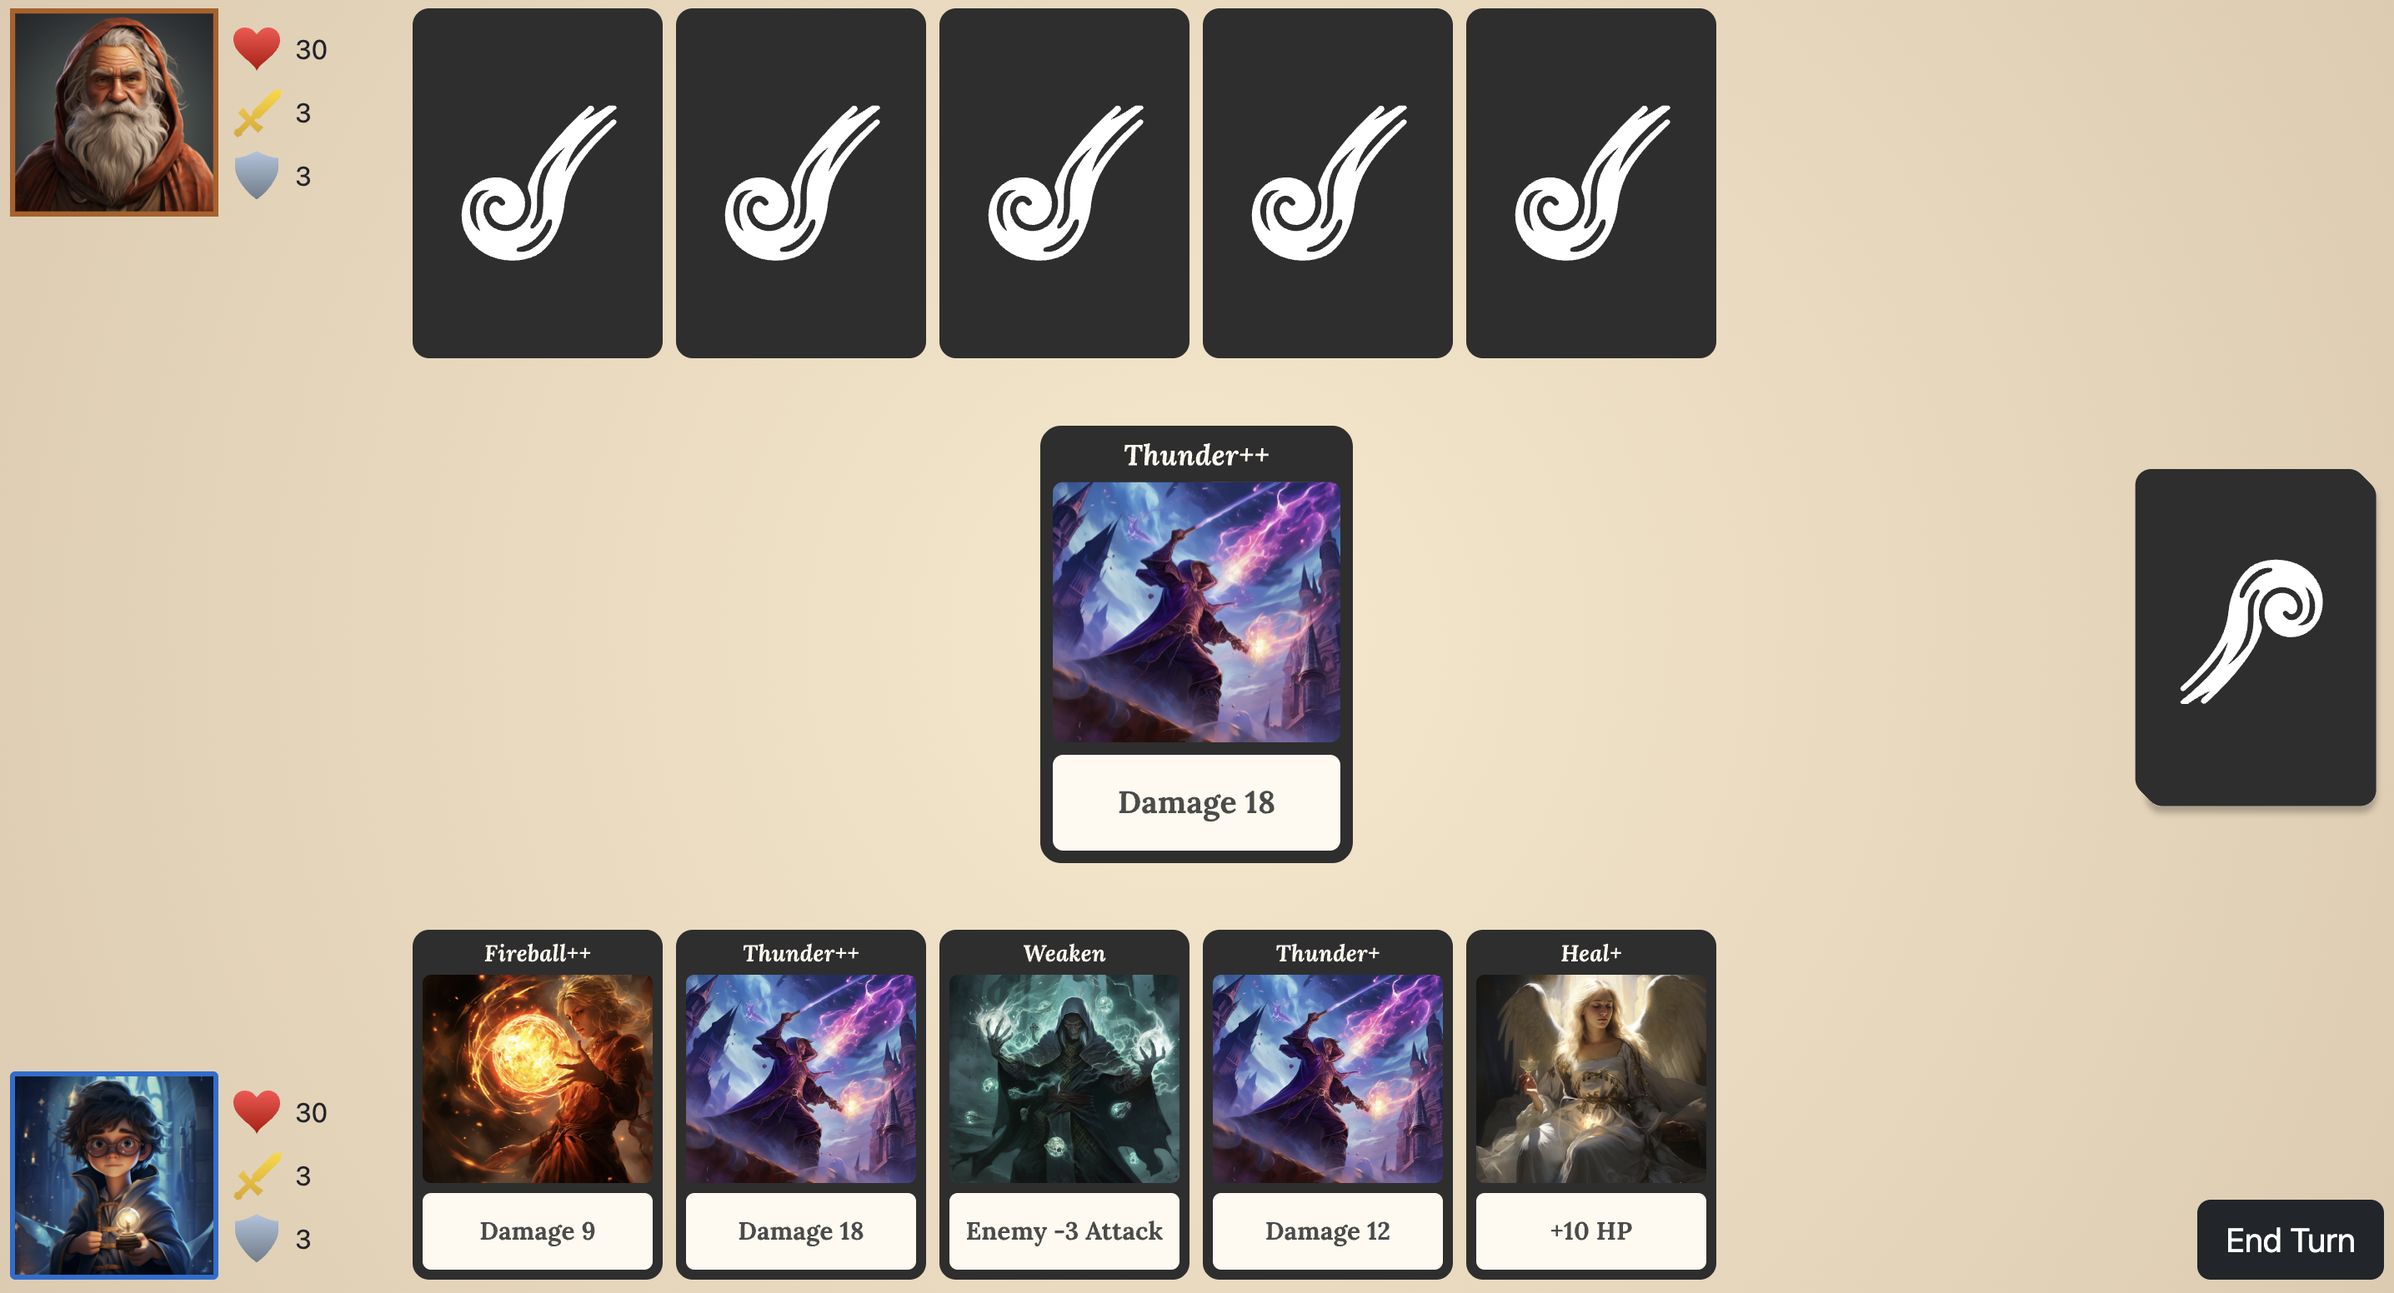
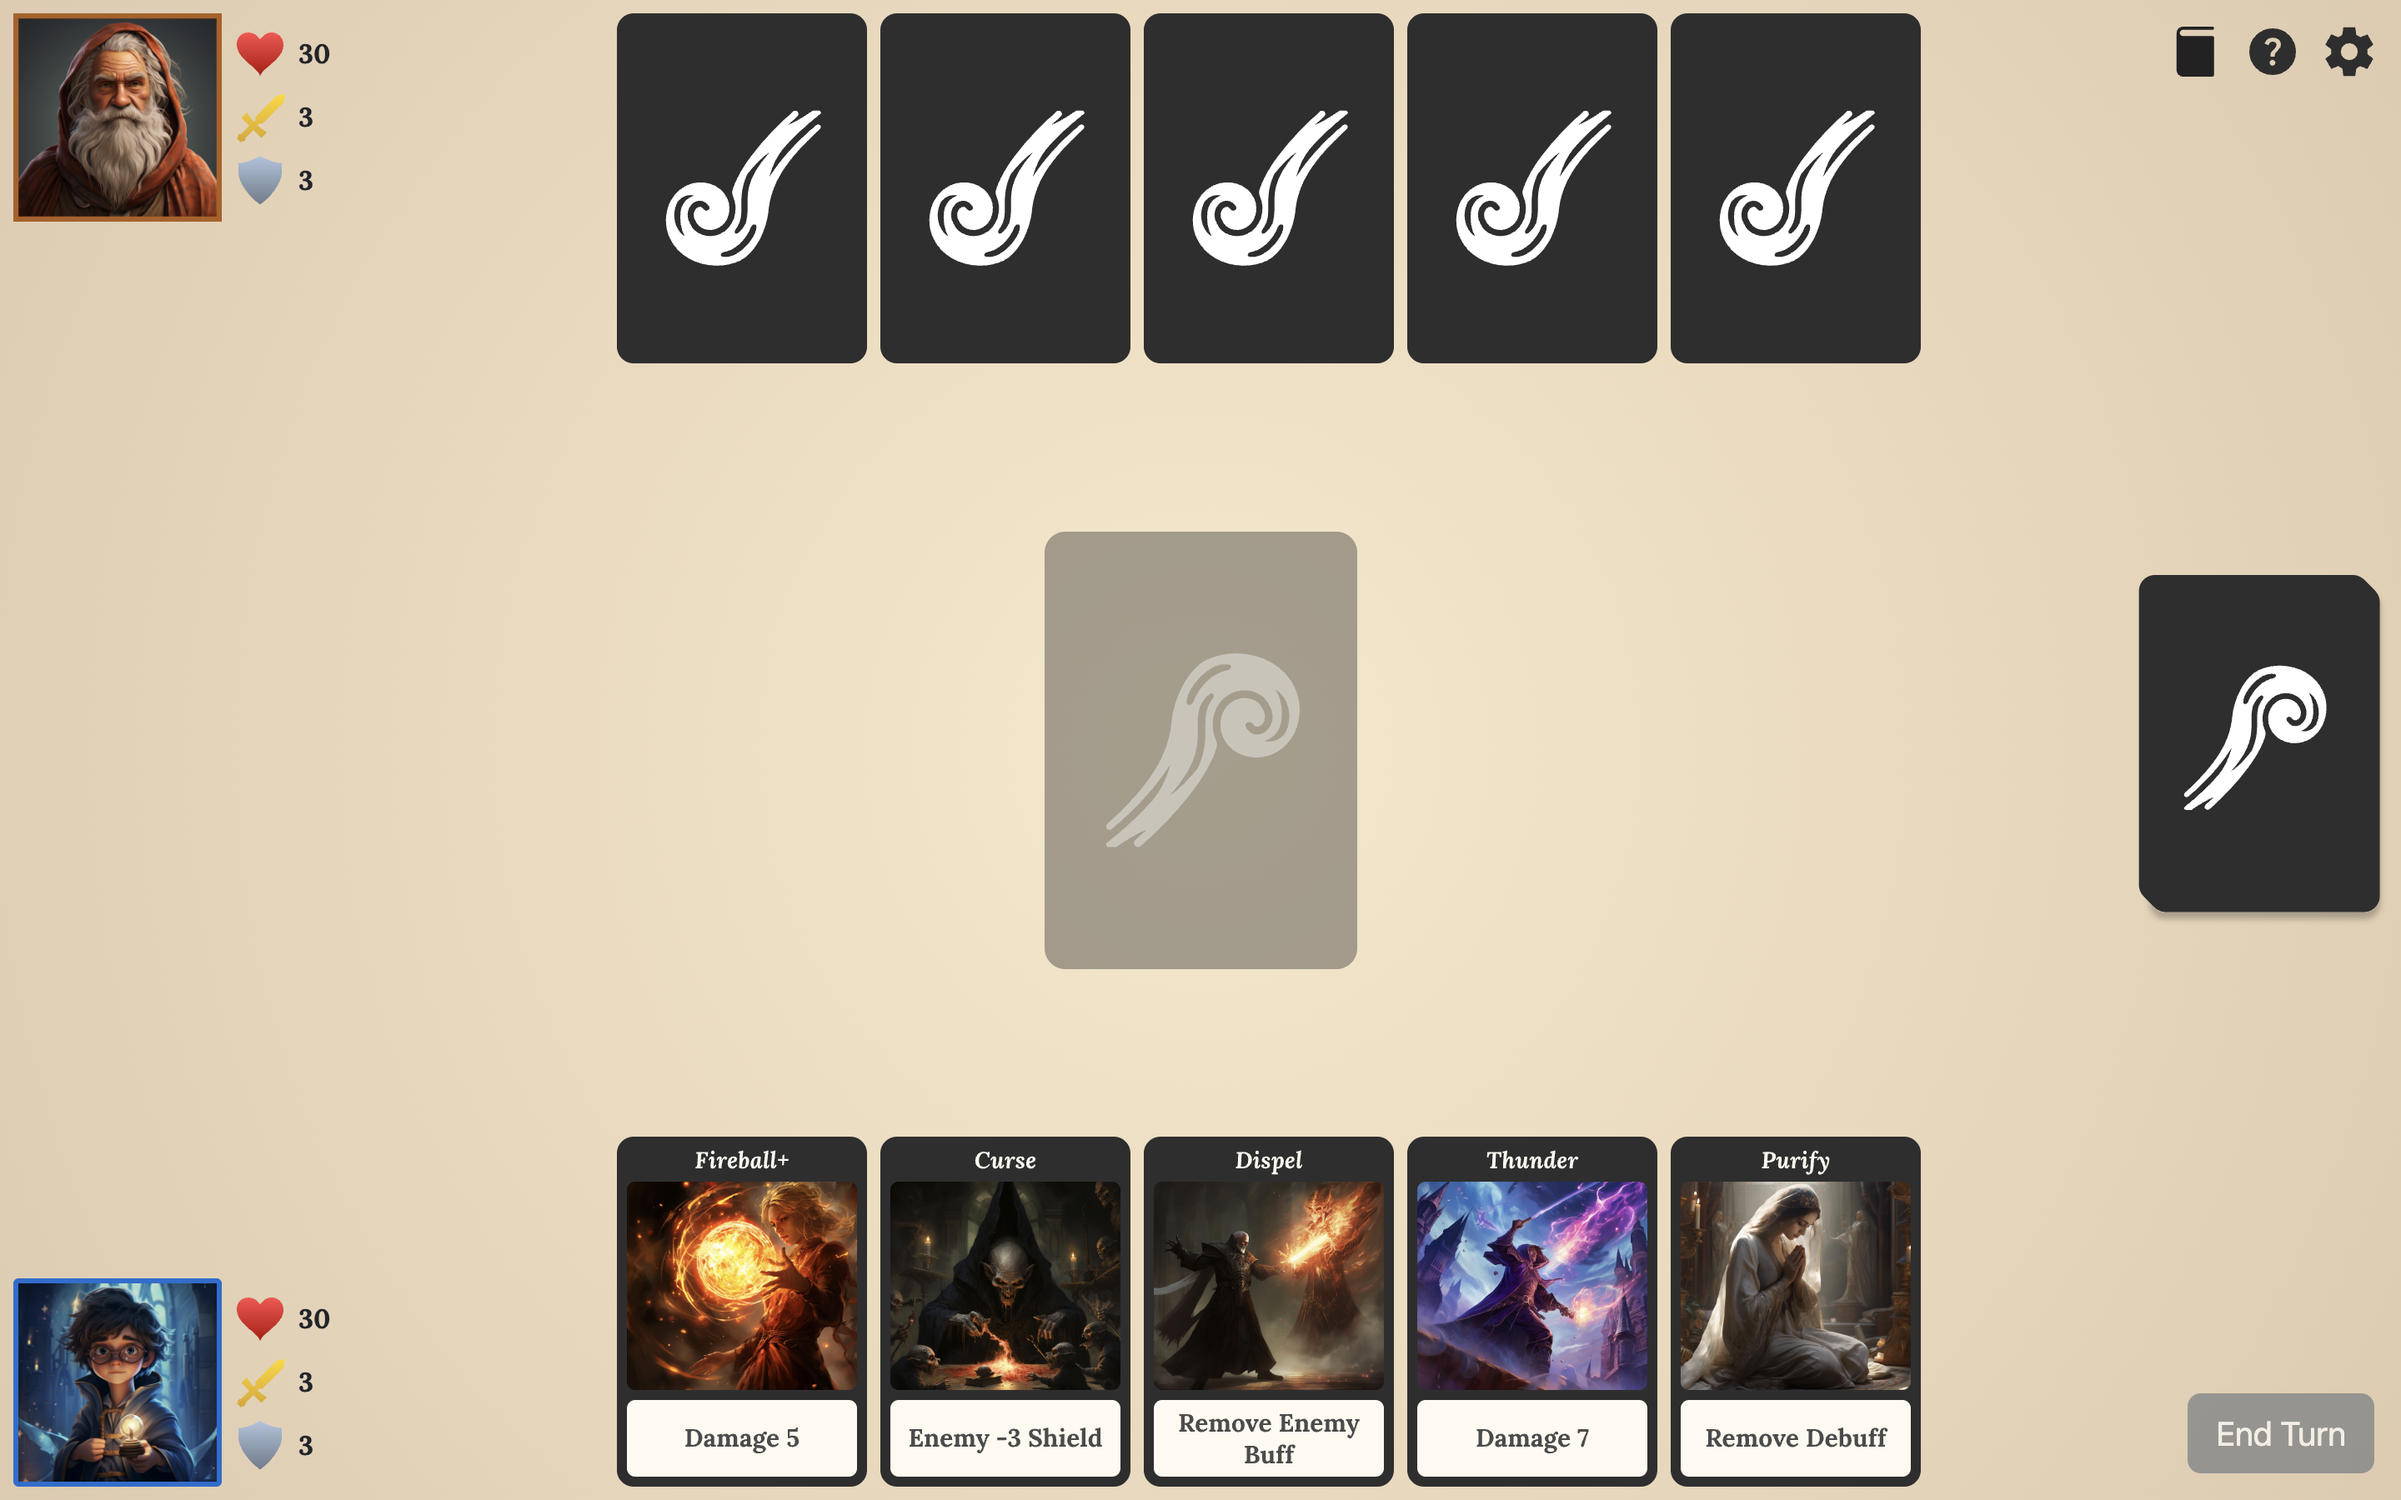
Add font

diff --git a/src/components/PlayerStats.js b/src/components/PlayerStats.js
@@ -1,5 +1,6 @@
 import { avatarHeight, avatarWidth } from './utils/constants';
 import { avatar, icon } from './utils/assetPaths';
+import './styles/styles.css';
 
 const PlayerStats = ({ player }) => {
   return (
@@ -16,15 +17,15 @@ const PlayerStats = ({ player }) => {
       <div className='d-flex flex-column'>
         <div className='d-flex align-items-center mb-2'>
           <img src={icon.hp} className='me-2' alt='hp' />
-          <span>{player.hp}</span>
+          <span className='font-lora-bold'>{player.hp}</span>
         </div>
         <div className='d-flex align-items-center mb-2'>
           <img src={icon.atk} className='me-2' alt='atk' />
-          <span>{player.atk}</span>
+          <span className='font-lora-bold'>{player.atk}</span>
         </div>
         <div className='d-flex align-items-center'>
           <img src={icon.def} className='me-2' alt='def' />
-          <span>{player.def}</span>
+          <span className='font-lora-bold'>{player.def}</span>
         </div>
       </div>
     </div>

diff --git a/src/index.js b/src/index.js
@@ -1,6 +1,7 @@
 import 'bootstrap/dist/css/bootstrap.min.css';
 import React from "react";
 import ReactDOM from "react-dom/client";
+import './index.css';
 import App from "./App";
 
 const root = ReactDOM.createRoot(document.getElementById("root"));

diff --git a/src/components/styles/styles.css b/src/components/styles/styles.css
@@ -5,3 +5,8 @@
     rgba(210, 180, 140, 0.7)
   );
 }
+
+.font-lora-bold {
+  font-family: 'Lora', serif;
+  font-weight: 700;
+}

diff --git a/src/index.css b/src/index.css
@@ -1,0 +1,1 @@
+@import url('https://fonts.googleapis.com/css2?family=Lora:ital,wght@0,400..700;1,400..700&display=swap');
